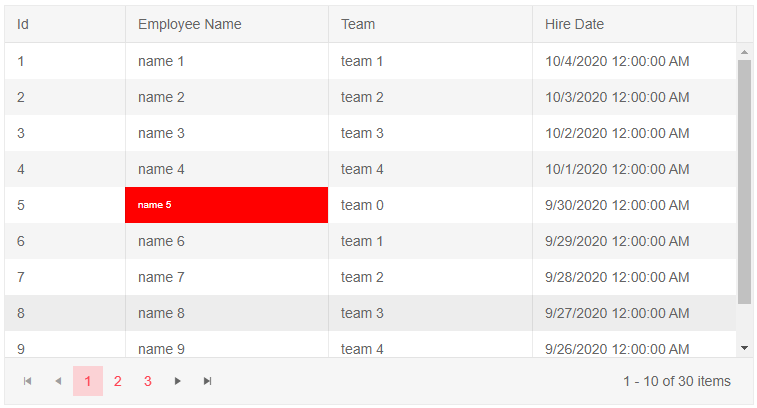
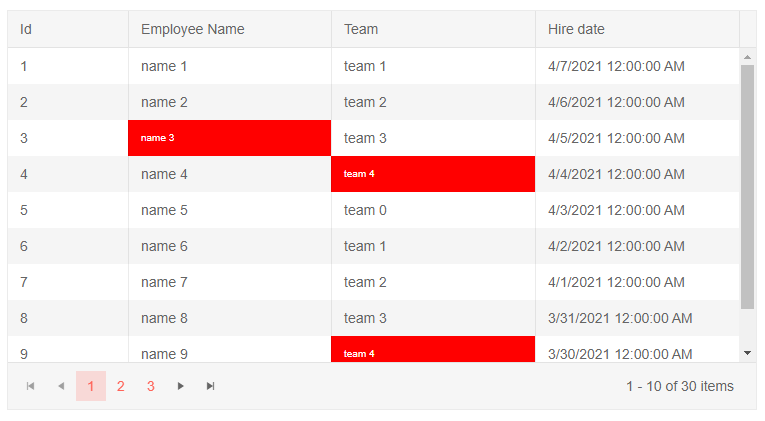
chore(grid): improvements on column events article per feedback - added check for column name in the example

diff --git a/components/grid/columns/events.md b/components/grid/columns/events.md
@@ -22,10 +22,12 @@ This event fires upon the rendering of the Grids columns. It receives an argumen
 * `Value` - an object that contains the value that is rendered in the Grid cell. You can cast it to its data type, for example to a `string`, `DateTime` or a number.
 * `Class` - the CSS class that will be applied to the cells. The CSS rules that are set for that class will be visibly rendered on the Grid cells.
 
->caption Use the OnCellRender event to apply custom format to Grid cells based on certain value
+>tip You can also pass lambda expressions to the OnCellRender parameter. Thus, you can provide additional meta data to the OnCellRender handler ( for example column title ) apart from the `GridCellRenderEventArgs` that it receives by default.
+
+>caption Use the OnCellRender event to apply custom format to Grid cells based on certain cell value and column name
 
 ````CSHTML
-@* Conditional styling/formatting for a cell *@
+@* Conditional styling/formatting for cells *@
 
 <style>
     .myCustomCellFormatting {
@@ -35,32 +37,33 @@ This event fires upon the rendering of the Grids columns. It receives an argumen
     }
 </style>
 
-<TelerikGrid Data="@MyData" 
+<TelerikGrid Data="@MyData"
              Height="400px"
-             Pageable="true" 
+             Pageable="true"
              Width="750px">
     <GridColumns>
         <GridColumn Field="@(nameof(SampleData.Id))" Width="120px" />
-        <GridColumn Field="@(nameof(SampleData.Name))"
-                    Title="Employee Name"
+        <GridColumn Field="@(nameof(SampleData.Name))" Title = "Employee Name"
                     Groupable="false"
-                    OnCellRender="@OnCellRenderHandler" />
-        <GridColumn Field="@(nameof(SampleData.Team))" Title="Team" />
-        <GridColumn Field="@(nameof(SampleData.HireDate))" Title="Hire Date" />
+                    OnCellRender="@((x) => OnCellRenderHandler(x, "Employee Name"))" />
+        <GridColumn Field="@(nameof(SampleData.Team))" Title="Team" OnCellRender="@((x) => OnCellRenderHandler(x, "Team"))" />
+        <GridColumn Field="@(nameof(SampleData.HireDate))" Title="Hire date" />
     </GridColumns>
 </TelerikGrid>
 
-@code {
+@code {   
 
-    void OnCellRenderHandler(GridCellRenderEventArgs args)
+    void OnCellRenderHandler(GridCellRenderEventArgs args, string columnName)
     {
         var item = args.Item as SampleData;
 
-        if (item.Name.Contains("5"))
+        if ((columnName == "Employee Name" && item.Name.Contains("3")) ||
+             (columnName == "Team" && item.Team.Contains("4")))
         {
             args.Class = "myCustomCellFormatting";
         }
     }
+
     public IEnumerable<SampleData> MyData = Enumerable.Range(1, 30).Select(x => new SampleData
     {
         Id = x,
